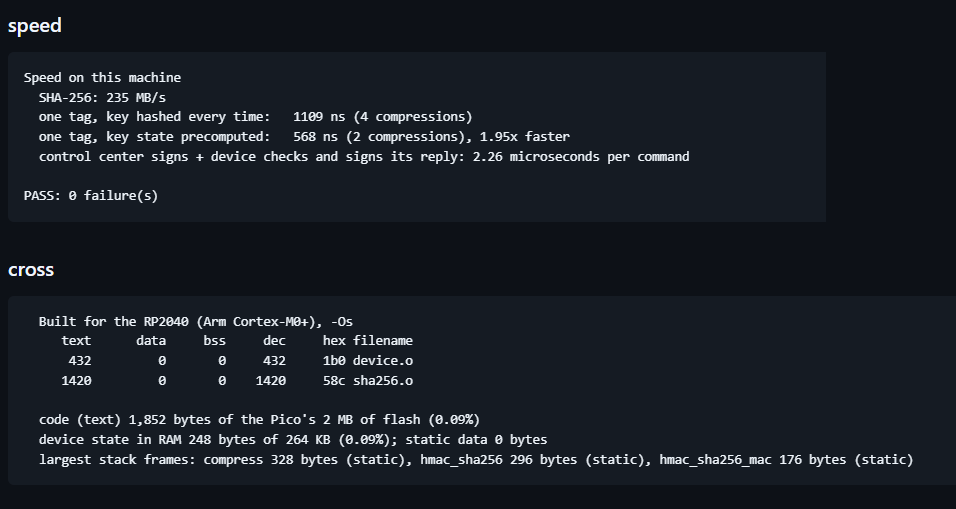
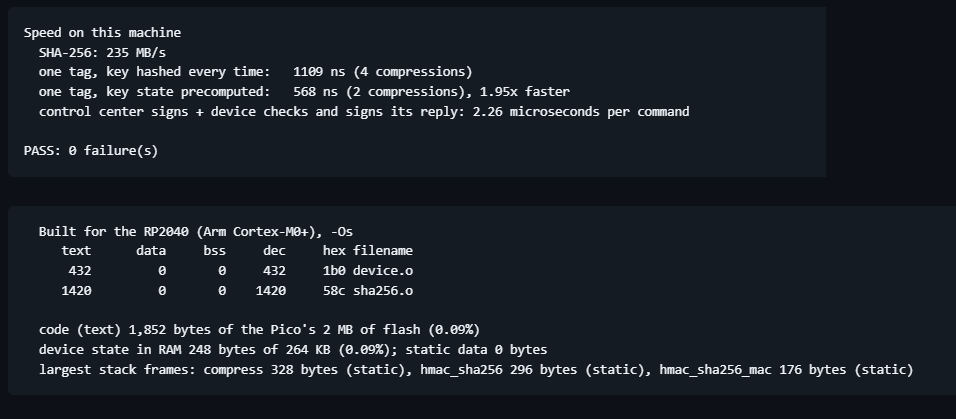
Engineering page: readable screenshots (#18)
Redaction (2), georeferencing and Lab F regression screenshots are cropped to the output block
and shown at about 1.17x instead of 0.75x; the field device screenshots drop the bare
'asan' / 'scenario' / 'speed' / 'cross' step headings. No numbers or text changed.

Claude-Session: https://claude.ai/code/session_01NZgUM95rSk2CG4TLec6pXK

Changed region(s): [[0.0, 0.4964, 0.9707, 0.9308], [0.0, 0.031, 0.728, 0.4033]]

diff --git a/docs/engineering.html b/docs/engineering.html
@@ -347,11 +347,11 @@ section.project h2{font-size:clamp(28px,4.2vw,42px)}
     <p>Until this run I had been saying the check caught 300 of 300. That was a smaller test on a different sample, and this one missed two. Both were misreads I hadn&#8217;t seen before: OCR read an f as an asterisk, and it put an accented &#233; into the middle of an ID. I fixed both, then measured again on 300 IDs from a new seed, so the fix was tested on IDs it had never seen. It caught <strong>300 of 300</strong>, which puts the 95% upper bound on the miss rate at 0.99%.</p>
     <p>The bound comes from the same arithmetic as section 2.3: with zero misses in 300, the true miss rate could still be as high as 0.99%.</p>
     <figure>
-      <a href="img/engineering/redaction-first-run.png" target="_blank" rel="noopener"><img src="img/engineering/redaction-first-run.png" alt="GitHub Actions run page: first measurement, 298 of 300 caught after repair" loading="lazy"></a>
+      <a href="img/engineering/redaction-first-run.png" target="_blank" rel="noopener"><img style="max-width:820px" src="img/engineering/redaction-first-run.png" alt="GitHub Actions run page: first measurement, 298 of 300 caught after repair" loading="lazy"></a>
       <figcaption>The first measurement, seed 20261105. 298 of 300 after repair: the run that found the two misreads. <a href="https://github.com/SantRamLAnt/security-labs/actions/runs/42155477690" target="_blank" rel="noopener">Open on GitHub</a></figcaption>
     </figure>
     <figure>
-      <a href="img/engineering/redaction-fresh-seed.png" target="_blank" rel="noopener"><img src="img/engineering/redaction-fresh-seed.png" alt="GitHub Actions run page: measurement on a new seed after the fix, 300 of 300 caught" loading="lazy"></a>
+      <a href="img/engineering/redaction-fresh-seed.png" target="_blank" rel="noopener"><img style="max-width:820px" src="img/engineering/redaction-fresh-seed.png" alt="GitHub Actions run page: measurement on a new seed after the fix, 300 of 300 caught" loading="lazy"></a>
       <figcaption>After the fix, on IDs from a new seed: 300 of 300. <a href="https://github.com/SantRamLAnt/security-labs/actions/runs/42158983727" target="_blank" rel="noopener">Open on GitHub</a></figcaption>
     </figure>
     <p class="src">Source: <a href="https://github.com/SantRamLAnt/security-labs/blob/main/ci/measure_redaction.py" target="_blank" rel="noopener">ci/measure_redaction.py</a> &middot; runs: <a href="https://github.com/SantRamLAnt/security-labs/actions/runs/42155477690" target="_blank" rel="noopener">first measurement</a> &middot; <a href="https://github.com/SantRamLAnt/security-labs/actions/runs/42158983727" target="_blank" rel="noopener">after the fix, new seed</a></p>
@@ -405,7 +405,7 @@ section.project h2{font-size:clamp(28px,4.2vw,42px)}
       <figcaption>The confusion matrix and the confidence intervals, from the same run. <a href="https://github.com/SantRamLAnt/security-labs/actions/runs/42264266968" target="_blank" rel="noopener">Open on GitHub</a></figcaption>
     </figure>
     <figure>
-      <a href="img/engineering/labf-regression-run.png" target="_blank" rel="noopener"><img src="img/engineering/labf-regression-run.png" alt="GitHub Actions run page: 21 regression cases all passing" loading="lazy"></a>
+      <a href="img/engineering/labf-regression-run.png" target="_blank" rel="noopener"><img style="max-width:680px" src="img/engineering/labf-regression-run.png" alt="GitHub Actions run page: 21 regression cases all passing" loading="lazy"></a>
       <figcaption>The Lab F run for this change, with all 21 regression cases. Case 1 is the real reply from the 31 October test. <a href="https://github.com/SantRamLAnt/security-labs/actions/runs/42264266968" target="_blank" rel="noopener">Open on GitHub</a></figcaption>
     </figure>
     <p class="src">Source: <a href="https://github.com/SantRamLAnt/security-labs/blob/main/labs/lab-f/stats.py" target="_blank" rel="noopener">labs/lab-f/stats.py</a> &middot; <a href="https://github.com/SantRamLAnt/security-labs/blob/main/labs/lab-f/test_misinformation.py" target="_blank" rel="noopener">test_misinformation.py</a> &middot; write-up: <a href="https://github.com/SantRamLAnt/security-labs/blob/main/labs/lab-f/FINDINGS.md#finding-6-what-ten-trials-can-and-cant-tell-you" target="_blank" rel="noopener">Finding 6</a></p>
@@ -506,7 +506,7 @@ section.project h2{font-size:clamp(28px,4.2vw,42px)}
     <p>The held-back points give the more realistic number, because the RMS Pro shows is measured on the same points the fit was built from. Refitting without each point in turn finds the mistyped one: it lands 5.00 m from the fit of the other eight. Until it&#8217;s removed it also pulls every other point off, by as much as 1.08 m.</p>
     <p>Two ideas from 18.06 show up directly. The normal equations work with A<sup>T</sup>A, whose condition number is the square of A&#8217;s: about 150 million on raw pixel coordinates against 12,000 for A. Centering the coordinates first brings A down to about 2,900, and QR avoids forming A<sup>T</sup>A at all. QR, the normal equations and numpy&#8217;s solver agree here to 1e-12, because the problem is small.</p>
     <figure>
-      <a href="img/engineering/georef-run.png" target="_blank" rel="noopener"><img src="img/engineering/georef-run.png" alt="GitHub Actions run page: least-squares georeferencing checks passing" loading="lazy"></a>
+      <a href="img/engineering/georef-run.png" target="_blank" rel="noopener"><img style="max-width:810px" src="img/engineering/georef-run.png" alt="GitHub Actions run page: least-squares georeferencing checks passing" loading="lazy"></a>
       <figcaption>The least-squares checks running on GitHub. <a href="https://github.com/SantRamLAnt/security-labs/actions/runs/42264267048" target="_blank" rel="noopener">Open on GitHub</a></figcaption>
     </figure>
     <p class="src">Source: <a href="https://github.com/SantRamLAnt/security-labs/blob/main/engineering/georef/affine_fit.py" target="_blank" rel="noopener">engineering/georef/affine_fit.py</a> &middot; <a href="https://github.com/SantRamLAnt/security-labs/blob/main/engineering/georef/README.md" target="_blank" rel="noopener">write-up</a></p>
